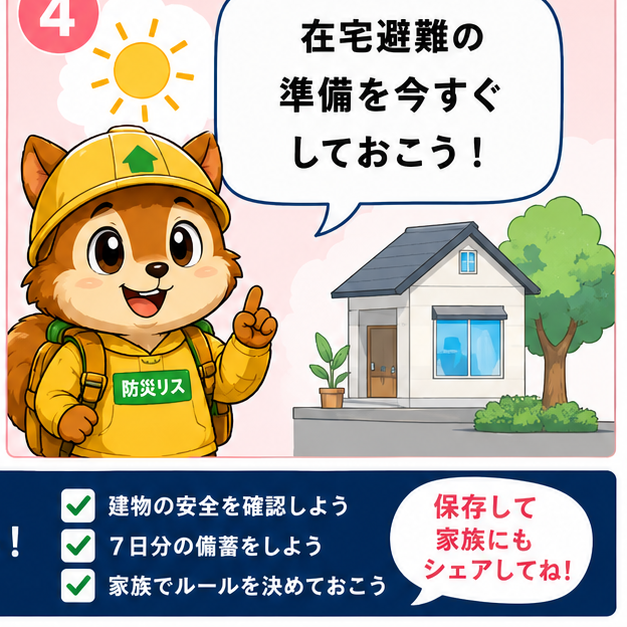
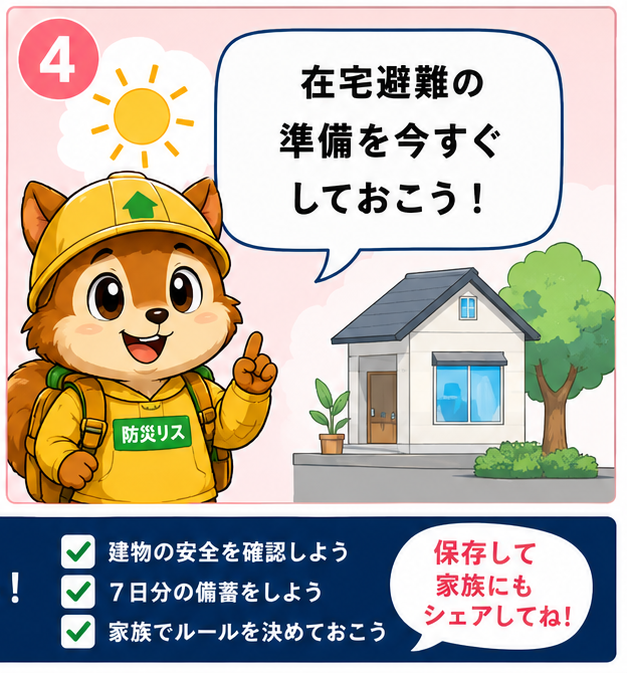
Fix: パネル分割位置を自動検出に変更（白い余白ラインを走査）
earthquake-zaitakuのinfoストリップで生じていたズレを解消。
水平分割位置をピクセル輝度スキャンで自動検出するように split-composite.js を改修。

diff --git a/scripts/split-composite.js b/scripts/split-composite.js
@@ -9,6 +9,32 @@ const ARTICLES = [
   'evacuation-shelter-infection',
 ];
 
+// 画像のピクセルデータを走査して、最も白い横ライン（パネル間の余白）の y 座標を返す
+// searchFrom〜searchTo の範囲内で探す（デフォルト: 30%〜70%）
+function findHorizontalSplit(ctx, W, H) {
+  const data = ctx.getImageData(0, 0, W, H).data;
+  const searchFrom = Math.floor(H * 0.30);
+  const searchTo   = Math.floor(H * 0.70);
+
+  let bestY = Math.floor(H / 2);
+  let bestScore = -1;
+
+  for (let y = searchFrom; y < searchTo; y++) {
+    let totalBrightness = 0;
+    for (let x = 0; x < W; x++) {
+      const i = (y * W + x) * 4;
+      totalBrightness += (data[i] + data[i + 1] + data[i + 2]) / 3;
+    }
+    const avg = totalBrightness / W;
+    if (avg > bestScore) {
+      bestScore = avg;
+      bestY = y;
+    }
+  }
+
+  return bestY;
+}
+
 async function splitComposite(slug) {
   const dir = path.join(__dirname, `../public/manga/${slug}`);
   const src = path.join(dir, 'composite.png');
@@ -22,25 +48,32 @@ async function splitComposite(slug) {
   const W = img.width;
   const H = img.height;
   const panelW = Math.floor(W / 2);
-  const panelH = Math.floor(H / 2);
 
-  console.log(`📐 ${slug}: ${W}x${H} → パネル ${panelW}x${panelH}`);
+  // 一度 canvas に描画してピクセルデータを取得
+  const tempCanvas = createCanvas(W, H);
+  const tempCtx = tempCanvas.getContext('2d');
+  tempCtx.drawImage(img, 0, 0);
 
-  // 2×2 グリッドの各コマ位置
-  const positions = [
-    { col: 0, row: 0, num: 1 }, // 左上
-    { col: 1, row: 0, num: 2 }, // 右上
-    { col: 0, row: 1, num: 3 }, // 左下
-    { col: 1, row: 1, num: 4 }, // 右下
+  const splitY = findHorizontalSplit(tempCtx, W, H);
+  const topH    = splitY;
+  const bottomH = H - splitY;
+
+  console.log(`📐 ${slug}: ${W}x${H} → 横分割 y=${splitY} (上${topH}px / 下${bottomH}px)`);
+
+  const panels = [
+    { srcX: 0,      srcY: 0,      srcW: panelW,  srcH: topH,    num: 1 },
+    { srcX: panelW, srcY: 0,      srcW: panelW,  srcH: topH,    num: 2 },
+    { srcX: 0,      srcY: splitY, srcW: panelW,  srcH: bottomH, num: 3 },
+    { srcX: panelW, srcY: splitY, srcW: panelW,  srcH: bottomH, num: 4 },
   ];
 
-  for (const { col, row, num } of positions) {
-    const canvas = createCanvas(panelW, panelH);
+  for (const { srcX, srcY, srcW, srcH, num } of panels) {
+    const canvas = createCanvas(srcW, srcH);
     const ctx = canvas.getContext('2d');
-    ctx.drawImage(img, col * panelW, row * panelH, panelW, panelH, 0, 0, panelW, panelH);
+    ctx.drawImage(img, srcX, srcY, srcW, srcH, 0, 0, srcW, srcH);
     const outPath = path.join(dir, `panel-0${num}.png`);
     fs.writeFileSync(outPath, canvas.toBuffer('image/png'));
-    console.log(`  ✅ panel-0${num}.png`);
+    console.log(`  ✅ panel-0${num}.png (${srcW}x${srcH})`);
   }
 }
 
